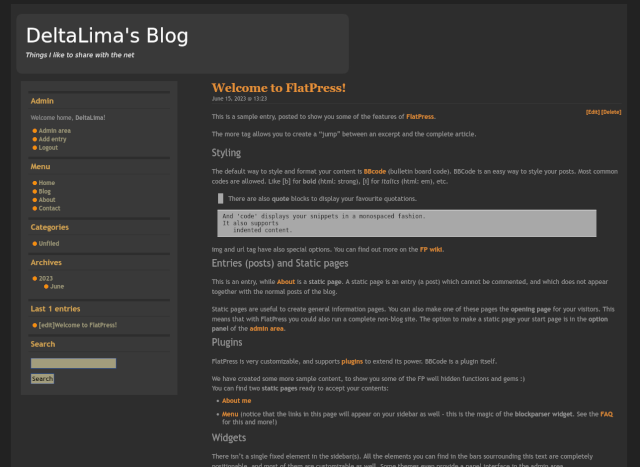
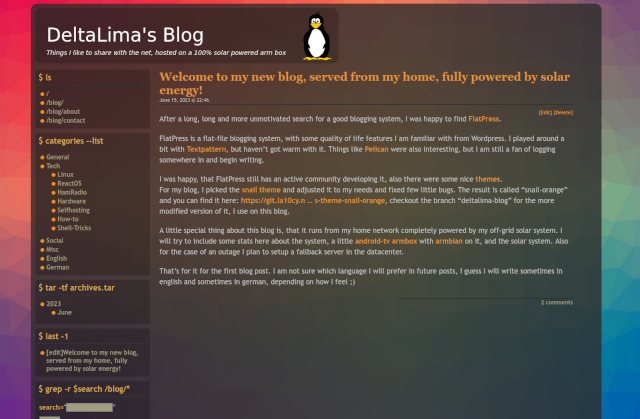
size adjustments, border radius adjustment

diff --git a/res/common.css b/res/common.css
@@ -133,7 +133,7 @@ h6 { font-size: 0.9em }
 	text-align: left;
 	width: 69% !important;
 	width: 69%; /* fix for I.E. */
-	margin: 0 auto 10px auto;
+	margin: 0 auto 0 auto;
 	padding: 5px;
 /*	background-color: #2D2D2D;*/
 	background-color: rgba(45, 45, 45, 0.8);
@@ -146,7 +146,7 @@ h6 { font-size: 0.9em }
   	/*background: url("../imgs/logo.jpg") no-repeat;*/
   	width: 680px; !important;
 	width: 680px;
-	height: 150px;
+	height: 128px;
 	font-family: Tahoma, sans-serif;
 	float: center;
 }
@@ -154,8 +154,8 @@ h6 { font-size: 0.9em }
         background-color: rgba(0, 0, 0, 0.2);
 	border-radius: 15px;
   	width: 100% !important;
-	height: 128px;
-	margin: 5px 0 0 15px ;
+	height: 124px;
+	margin: 5px 0 0 5px ;
 }
 
 #title-container {
@@ -204,10 +204,10 @@ h6 { font-size: 0.9em }
   overflow: hidden;
   display: inline-block;
 	position: relative;
-	width: 69% !important;
-	width: 69%;
+	width: 73% !important;
+	width: 73%;
 	font-size: 100%;
-	margin: 1.5em 0.5em 0 1.2em;
+	margin: .8em 0.5em 0 1.2em;
 }
 
 #main p {
@@ -310,10 +310,16 @@ ol li, ul li { padding-bottom: 0.9em }
 /* ===== FOOTER ===== */
 #footer {
 	text-align: center;
-	background: #2D2D2D;
+/*	background: #2D2D2D;*/
+        background-color: rgba(0, 0, 0, 0.2);
+	border-top-right-radius: 5px;
+	border-top-left-radius: 5px;
+	border-bottom-right-radius: 15px;
+	border-bottom-left-radius: 15px;
 	clear: both;
 	font-size: 80%;
 	padding: 8px;
+	margin: 0px 5px 5px 5px; 
 	/*border-top: #315A94 2px solid*/
-	border-top: #393939 2px solid
+	/*border-top: #393939 2px solid*/
 }

diff --git a/res/column.css b/res/column.css
@@ -15,7 +15,7 @@ Module: style.css
 	font-size: 85% !important;
 	font-size: 80%;
 	margin: 0 0 15px 0;
-	padding: 10px;
+	padding: 0px;
 }
 
 #column h4 {
@@ -33,7 +33,7 @@ Module: style.css
 #column div { 
 /*	background: #393939  */
         background-color: rgba(0, 0, 0, 0.2);
-	border-radius: 15px;
+	border-radius: 5px;
 	padding: 2px;
 
 }
